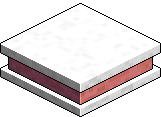
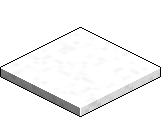
Change UILevelCreator To Physical Button

diff --git a/Bomberman/UILevelCreatorPage.cpp b/Bomberman/UILevelCreatorPage.cpp
@@ -6,39 +6,41 @@ UILevelCreatorPage::UILevelCreatorPage(LevelCreatorPage* page1)
 	title.SetPosition(40, 250);
 	title.SetRotation(-26.5);
 
-	nextButton.SetTexture("Images/UI/LevelCreator/Right.png");
-	nextButton.SetPosition(1800,850);
-	nextButton.SetScale(0.5f, .5f);
-	previousButton.SetTexture("Images/UI/LevelCreator/Left.png");
-	previousButton.SetPosition(1750, 850);
-	previousButton.SetScale(0.5f, .5f);
-	backMenuButton.SetTexture("Images/UI/LevelCreator/Left.png");
-	backMenuButton.SetPosition(-80, -40);
-	backMenuButton.SetScale(0.5f, .5f);
-	saveButton.SetTexture("Images/UI/LevelCreator/Save.png");
-	saveButton.SetPosition(60, 850);
-	saveButton.SetScale(0.5f, .5f);
-	saveButton.Disable();
-	switchModeButton1.SetTexture("Images/UI/LevelCreator/EditionMode.png");
-	switchModeButton1.SetPosition(1820, -40);
-	switchModeButton1.SetScale(0.5f, .5f);
-	switchModeButton1.Disable();
-	switchModeButton2.SetTexture("Images/UI/LevelCreator/NormalMode.png");
-	switchModeButton2.SetPosition(1820, -40);
-	switchModeButton2.SetScale(0.5f, .5f);
-	//newLevelButton.SetTexture("Images/UI/LevelCreator/Create.png");
-	//newLevelButton.SetPosition(130, 850);
-	//newLevelButton.SetScale(0.5f, .5f);
+	nextPButton.SetBasicProperties(416, PhysicalButtonType::Square, RotationType::Vertical);
+	nextPButton.SetImgText("Images/UI/LevelCreator/RightPB.png");
+	nextPButton.SetOriginText(24, -15);
 
+	previousPButton.SetBasicProperties(414, PhysicalButtonType::Square, RotationType::Vertical);
+	previousPButton.SetImgText("Images/UI/LevelCreator/LeftPB.png");
+	previousPButton.SetOriginText(18, -17);
+
+	backMenuPButton.SetBasicProperties(366, PhysicalButtonType::Square, RotationType::Vertical);
+	backMenuPButton.SetImgText("Images/UI/LevelCreator/LeftPB.png");
+	backMenuPButton.SetOriginText(18, -17);
+
+	savePButton.SetBasicProperties(656, PhysicalButtonType::Rectangle6, RotationType::Vertical);
+	savePButton.SetImgText("Images/UI/LevelCreator/SavePB.png");
+	savePButton.SetOriginText(50, -38);
+	savePButton.Disable();
+
+	switchModePButton1.SetBasicProperties(124, PhysicalButtonType::Rectangle4, RotationType::Vertical);
+	switchModePButton1.SetImgText("Images/UI/LevelCreator/EditorModePB.png");
+	switchModePButton1.SetOriginText(41, -39);
+	switchModePButton1.Disable();
+
+	switchModePButton2.SetBasicProperties(124, PhysicalButtonType::Rectangle4, RotationType::Vertical);
+	switchModePButton2.SetImgText("Images/UI/LevelCreator/NormalModePB.png");
+	switchModePButton2.SetOriginText(41, -39);
+
+	newLevelPButton.SetBasicProperties(657, PhysicalButtonType::Rectangle3, RotationType::Vertical);
+	newLevelPButton.SetImgText("Images/UI/LevelCreator/CreateTextButton.png");
+	newLevelPButton.SetOriginText(60, -35);
+	
 	levelText.setFont(SelectedFont::instance->GetFont());
 	levelText.setPosition(1450, 770);
 	levelText.setCharacterSize(50);
 	levelText.setRotation(-26.5);
 	page = page1;
-
-	newLevelPButton.SetBasicProperties(657, PhysicalButtonType::Rectangle3, RotationType::Vertical);
-	newLevelPButton.SetImgText("Images/UI/LevelCreator/CreateTextButton.png");
-	newLevelPButton.SetOriginText(55, -15);
 }
 
 UILevelCreatorPage::~UILevelCreatorPage()
@@ -52,22 +54,22 @@ void UILevelCreatorPage::Update()
 
 	mouseUIPositionId = MouseTool::UM_GetIndexPositionMouse();
 
-	if (nextButton.DoesClick(mousePosition))
+	if (nextPButton.DoesClick(mouseUIPositionId))
 		page->UINextLevelClick();
 
-	if (previousButton.DoesClick(mousePosition))
+	if (previousPButton.DoesClick(mouseUIPositionId))
 		page->UIPreviousLevelClick();
 
-	if (backMenuButton.DoesClick(mousePosition))
+	if (backMenuPButton.DoesClick(mouseUIPositionId))
 	{
 		SetNormalMode();
 		page->UIBackMenu();
 	}
 
-	if (saveButton.DoesClick(mousePosition))
+	if (savePButton.DoesClick(mouseUIPositionId))
 		page->UISaveClick();
 
-	if (switchModeButton1.DoesClick(mousePosition) || switchModeButton2.DoesClick(mousePosition))
+	if (switchModePButton1.DoesClick(mouseUIPositionId) || switchModePButton2.DoesClick(mouseUIPositionId))
 	{
 		isEditing = !isEditing;
 		if (isEditing)
@@ -88,12 +90,12 @@ void UILevelCreatorPage::Update()
 void UILevelCreatorPage::Draw()
 {
 	title.Draw();
-	nextButton.Draw();
-	previousButton.Draw();
-	backMenuButton.Draw();
-	saveButton.Draw();
-	switchModeButton1.Draw();
-	switchModeButton2.Draw();
+	nextPButton.Draw();
+	previousPButton.Draw();
+	backMenuPButton.Draw();
+	savePButton.Draw();
+	switchModePButton1.Draw();
+	switchModePButton2.Draw();
 
 	newLevelPButton.Draw();
 
@@ -102,23 +104,23 @@ void UILevelCreatorPage::Draw()
 
 void UILevelCreatorPage::SetEditionMode()
 {
-	switchModeButton1.Enable();
-	switchModeButton2.Disable();
-	saveButton.Enable();
+	switchModePButton1.Enable();
+	switchModePButton2.Disable();
+	savePButton.Enable();
 	newLevelPButton.Disable();
-	previousButton.Disable();
-	nextButton.Disable();
+	previousPButton.Disable();
+	nextPButton.Disable();
 	isEditing = true;
 }
 
 void UILevelCreatorPage::SetNormalMode()
 {
-	switchModeButton1.Disable();
-	switchModeButton2.Enable();
-	saveButton.Disable();
+	switchModePButton1.Disable();
+	switchModePButton2.Enable();
+	savePButton.Disable();
 	newLevelPButton.Enable();
-	previousButton.Enable();
-	nextButton.Enable();
+	previousPButton.Enable();
+	nextPButton.Enable();
 	isEditing = false;
 }
 
@@ -133,12 +135,12 @@ void UILevelCreatorPage::SetActualMapId(int id)
 	levelText.setString("Level : " + to_string(id));
 
 	if (id <= 1)
-		previousButton.SetActive(false);
+		previousPButton.SetActive(false);
 	else
-		previousButton.SetActive(true);
+		previousPButton.SetActive(true);
 
 	if (id >= maxMapId)
-		nextButton.SetActive(false);
+		nextPButton.SetActive(false);
 	else
-		nextButton.SetActive(true);
+		nextPButton.SetActive(true);
 }

diff --git a/Bomberman/PhysicalButton.cpp b/Bomberman/PhysicalButton.cpp
@@ -1,6 +1,6 @@
 #include "PhysicalButton.h"
 
-Vector2f PhysicalButton::deltaClick = Vector2f(0.0f, 15.0f);
+Vector2f PhysicalButton::deltaClick = Vector2f(0.0f, 7.0f);
 
 PhysicalButton::PhysicalButton() : Button()
 {
@@ -93,10 +93,25 @@ void PhysicalButton::SetIds(int posId)
 		height = (rotation == RotationType::Horizontal) ? 2 : 3;
 		width = (rotation == RotationType::Horizontal) ? 3 : 2;
 	}
-	else
+	else if(type == PhysicalButtonType::Rectangle4)
 	{
 		height = (rotation == RotationType::Horizontal) ? 2 : 4;
 		width = (rotation == RotationType::Horizontal) ? 4 : 2;
+	}
+	else if (type == PhysicalButtonType::Rectangle5)
+	{
+		height = (rotation == RotationType::Horizontal) ? 2 : 5;
+		width = (rotation == RotationType::Horizontal) ? 5 : 2;
+	}
+	else if (type == PhysicalButtonType::Rectangle6)
+	{
+		height = (rotation == RotationType::Horizontal) ? 2 : 6;
+		width = (rotation == RotationType::Horizontal) ? 6 : 2;
+	}
+	else
+	{
+		height = (rotation == RotationType::Horizontal) ? 2 : 7;
+		width = (rotation == RotationType::Horizontal) ? 7 : 2;
 	}
 	
 	int cursorIndex = 0;
@@ -129,10 +144,37 @@ void PhysicalButton::SetOrigin(float x, float y)
 	clickImg.SetOrigin(x, y);
 }
 
+void PhysicalButton::Enable()
+{
+	ResetState();
+
+	Color& color = (isActive) ? white : semiTransparent;
+
+	sprite.setColor(color);
+	hoverImg.SetColor(color);
+	clickImg.SetColor(color);
+
+	isEnable = true;
+}
+
+void PhysicalButton::Disable()
+{
+	ResetState();
+	isEnable = false;
+
+	sprite.setColor(invisible);
+	hoverImg.SetColor(invisible);
+	clickImg.SetColor(invisible);
+}
 
 void PhysicalButton::Draw()
 {
-	for (int i = 0; i < 8; i++)
+	if (!isEnable)
+		return;
+
+	int max = height * width;
+
+	for (int i = 0; i < max; i++)
 	{
 		if (idsMap[i] == -1)
 			break;

diff --git a/Bomberman/PhysicalButton.h b/Bomberman/PhysicalButton.h
@@ -15,7 +15,7 @@ private:
 	
 	Vector2f position;
 
-	Vector2f positions[8];
+	Vector2f positions[14];
 
 	PhysicalButtonType type;
 	RotationType rotation;
@@ -23,7 +23,7 @@ private:
 	int width, height;
 	int idOrigin;
 
-	int idsMap[8];
+	int idsMap[14];
 	void SetIds(int);
 	void ResetIds();
 	void SetId(int, int);
@@ -37,5 +37,7 @@ public:
 	void SetOriginText(float, float);
 	void SetImgText(string);
 	void SetBasicProperties(int, PhysicalButtonType, RotationType);
+	void Enable();
+	void Disable();
 	void Draw();
 };

diff --git a/Bomberman/UILevelCreatorPage.h b/Bomberman/UILevelCreatorPage.h
@@ -19,14 +19,12 @@ private:
 
 	IMageUI title;
 
-	Button nextButton;
-	Button previousButton;
-	Button backMenuButton;
-	Button saveButton;
-	Button switchModeButton1;
-	Button switchModeButton2;
-	Button newLevelButton;
-
+	PhysicalButton nextPButton;
+	PhysicalButton previousPButton;
+	PhysicalButton backMenuPButton;
+	PhysicalButton savePButton;
+	PhysicalButton switchModePButton1;
+	PhysicalButton switchModePButton2;
 	PhysicalButton newLevelPButton;
 
 	Text levelText;	

diff --git a/Bomberman/LevelCreatorPage.cpp b/Bomberman/LevelCreatorPage.cpp
@@ -97,9 +97,9 @@ void LevelCreatorPage::Update()
 
     ui->Draw();
 
-    /*int temp = MouseTool::UM_GetIndexPositionMouse();
+    int temp = MouseTool::UM_GetIndexPositionMouse();
     cout << temp << endl;
-    Vector2f positionSelection = CustomMath::UM_PositionToIsoCoordF(temp);
+    /*Vector2f positionSelection = CustomMath::UM_PositionToIsoCoordF(temp);
     redTest.SetPosition(positionSelection);
     redTest.Draw();*/
    

diff --git a/Bomberman/PhysicalButtonType.h b/Bomberman/PhysicalButtonType.h
@@ -5,5 +5,8 @@ enum PhysicalButtonType
 	Square,
 	BigSquare,
 	Rectangle3,
-	Rectangle4
+	Rectangle4,
+	Rectangle5,
+	Rectangle6,
+	Rectangle7,
 };
